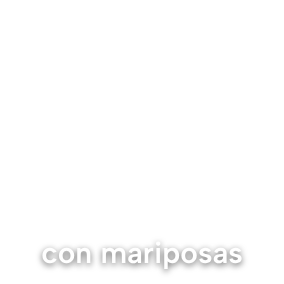
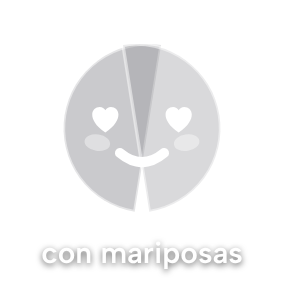
v0.14.0: Escarcha en gris translúcido para que se lea sobre fondos claros
Claude-Session: https://claude.ai/code/session_014Dsa21GqWfavjJsqgvsYQQ

Changed region(s): [[0.2254, 0.1408, 0.7887, 0.7606]]

diff --git a/src/widgets/components/svg.ts b/src/widgets/components/svg.ts
@@ -56,20 +56,22 @@ export function tonal(d: string, fill: string, clip = ''): string {
 
 /** Opacidades y trazo del estilo Escarcha (blanco sobre el fondo de pantalla). */
 export const FROST = {
+  /** Gris neutro del relleno: se lee sobre fondos claros y oscuros. */
+  base: '#8A8A90',
   /** Relleno de una pieza que no es ni tuya ni de tu pareja. */
-  fill: 0.22,
+  fill: 0.38,
   /** Tu pieza: un poco más cargada. */
-  me: 0.3,
+  me: 0.45,
   /** La pieza de tu pareja: más tenue. */
-  partner: 0.18,
+  partner: 0.32,
   /** Contorno fino de toda pieza. */
-  stroke: 0.45,
+  stroke: 0.5,
   /** Grosor del contorno en el lienzo de 100. */
   strokeWidth: 1.8,
   /** Relleno de avance (media luna) sobre la base translúcida. */
-  progress: 0.6,
+  progress: 0.75,
   /** Aro de la story. */
-  ring: 0.4,
+  ring: 0.38,
   /** Rastro oscuro (lágrima, brillo) que sustituye a los detalles de color. */
   glint: 0.3,
 } as const;
@@ -77,7 +79,7 @@ export const FROST = {
 /** Una pieza Escarcha: blanco translúcido con contorno blanco fino, sin sombra desplazada. */
 export function frostPiece(d: string, alpha: number, clip = ''): string {
   const body =
-    `<path d="${d}" fill="${WHITE}" fill-opacity="${alpha}" stroke="${WHITE}" ` +
+    `<path d="${d}" fill="${FROST.base}" fill-opacity="${alpha}" stroke="${WHITE}" ` +
     `stroke-opacity="${FROST.stroke}" stroke-width="${FROST.strokeWidth}" stroke-linejoin="round"/>`;
   return clip ? `<g clip-path="url(#${clip})">${body}</g>` : body;
 }
@@ -176,7 +178,7 @@ const outlined = (d: string, width = 3.2): string =>
   line(d, WHITE, width);
 /** Trazo grueso translúcido (los bracitos en Escarcha). */
 const softLine = (d: string, alpha: number): string =>
-  `<path d="${d}" stroke="${WHITE}" stroke-opacity="${alpha}" stroke-width="8" fill="none" ` +
+  `<path d="${d}" stroke="${FROST.base}" stroke-opacity="${alpha}" stroke-width="8" fill="none" ` +
   `stroke-linecap="round" stroke-linejoin="round"/>`;
 const zz = (x: number, y: number, s: number): string => `M${x} ${y} h${s} l${-s} ${s} h${s}`;
 
@@ -472,7 +474,7 @@ export function storyShapeSvg(
       : `<circle cx="84" cy="16" r="8" fill="${p}" stroke="${WHITE}" stroke-width="2.5"/>`
     : '';
   const ring = frost
-    ? `<circle cx="50" cy="50" r="42" fill="none" stroke="${WHITE}" stroke-opacity="${FROST.ring}" ` +
+    ? `<circle cx="50" cy="50" r="42" fill="none" stroke="${FROST.base}" stroke-opacity="${FROST.ring}" ` +
       `stroke-width="8"/>`
     : `<circle cx="50" cy="${50 + TONAL_OFFSET}" r="42" fill="none" stroke="url(#h${id})" stroke-width="8"/>` +
       `<circle cx="50" cy="50" r="42" fill="none" stroke="url(#g${id})" stroke-width="8"/>`;

diff --git a/src/widgets/components/message.ts b/src/widgets/components/message.ts
@@ -121,7 +121,7 @@ export function avatarSvg(l: MessageLayout, style: WidgetStyle, partner: FruitKe
   const fill = FRUITS[partner].hex;
   const inner =
     style === 'frost'
-      ? frostPiece(d, FROST.me)
+      ? frostPiece(d, FROST.fill)
       : `<path d="${d}" transform="translate(0,${TONAL_OFFSET})" fill="${shade(fill)}"/>` +
         `<path d="${d}" fill="${fill}"/>`;
   return `${svgOpen(l.avatar, l.avatar, '-2 -2 104 104')}${inner}</svg>`;
